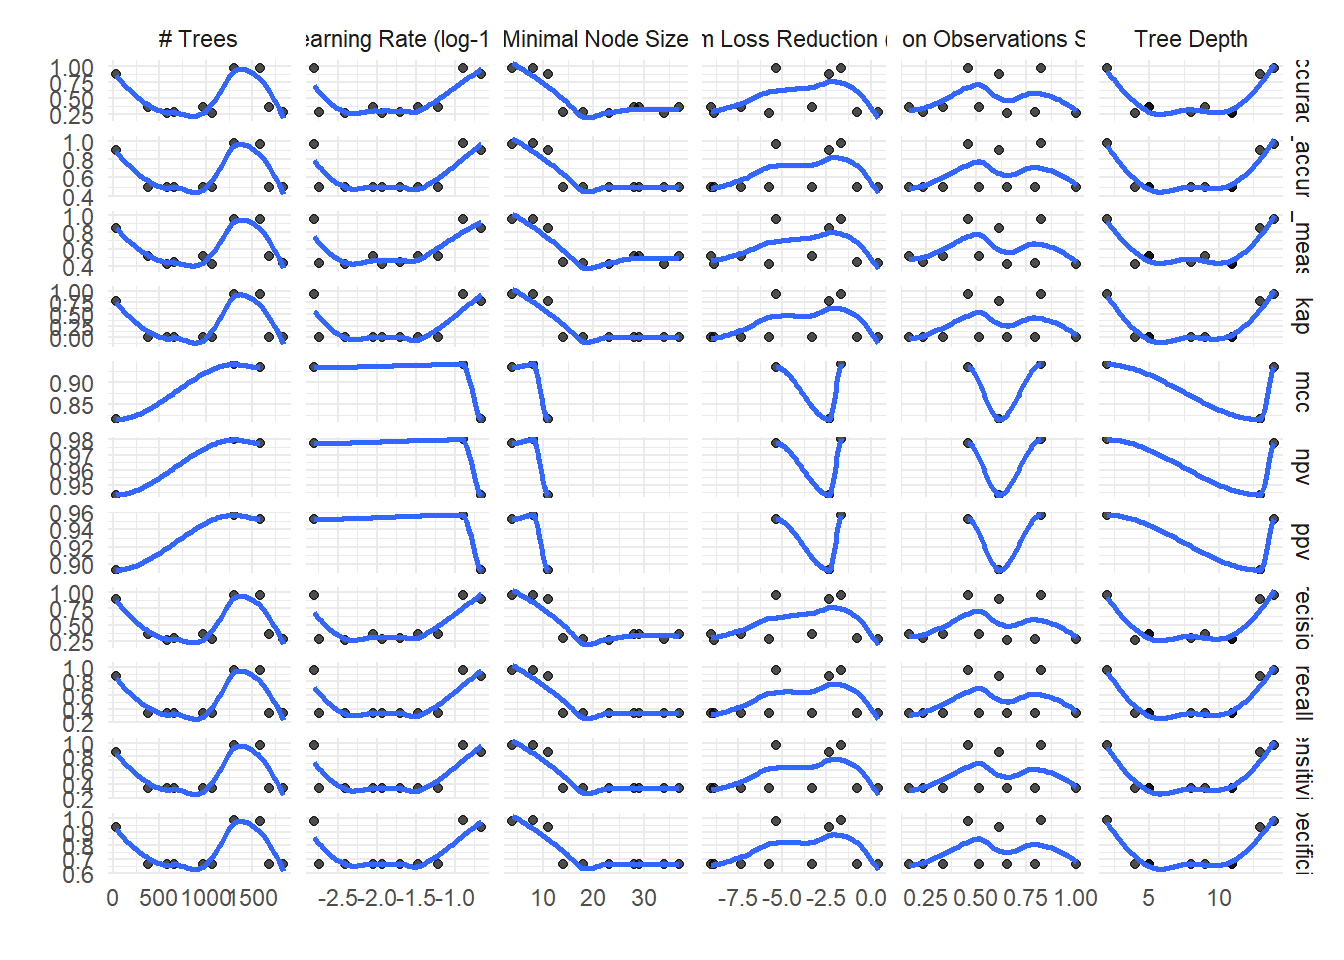
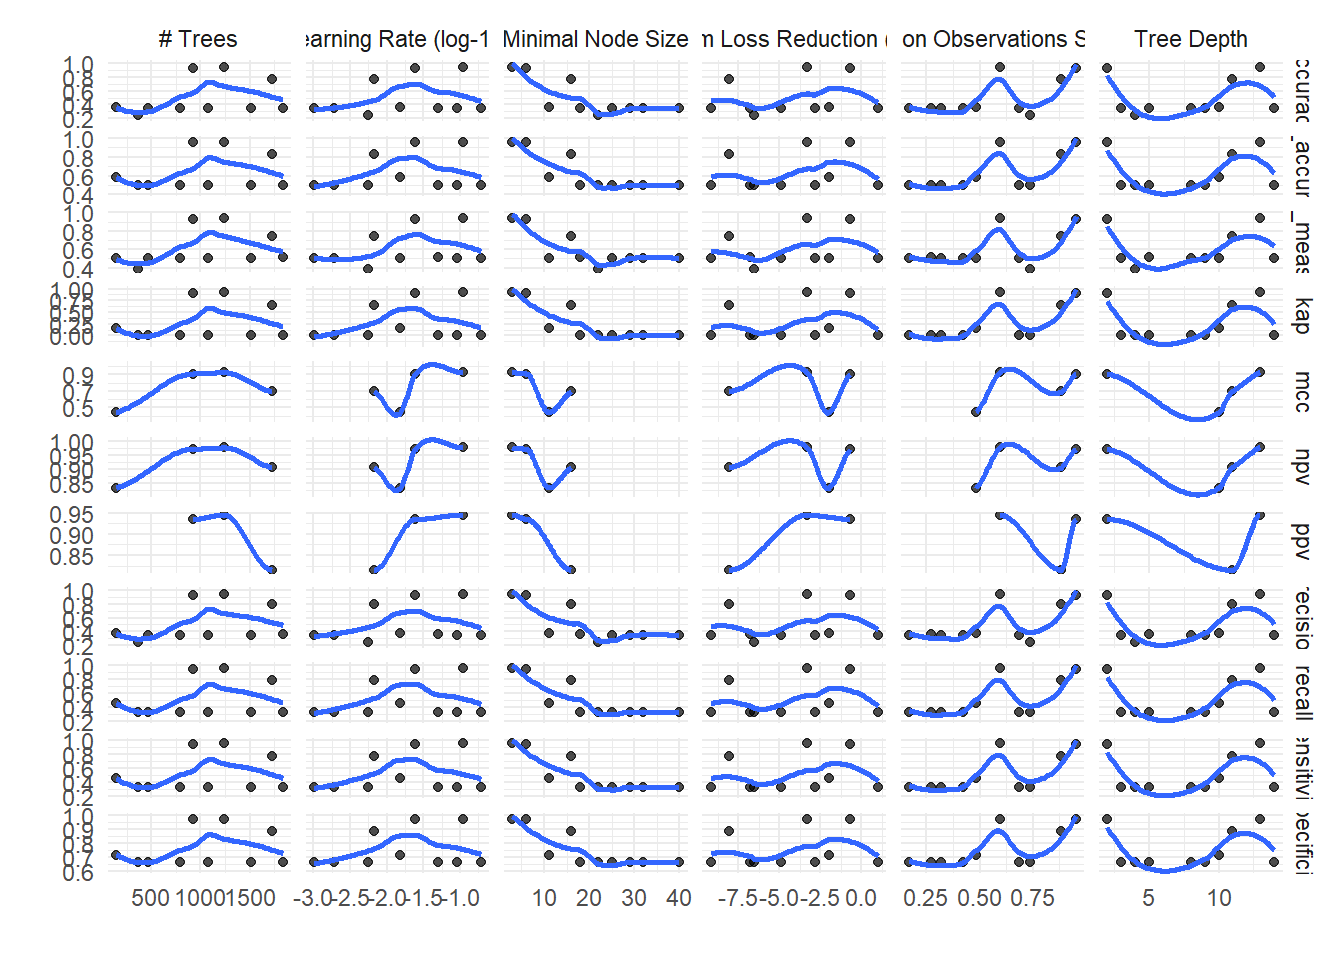
update

diff --git a/docs/posts/rtip-2023-01-19/index.html b/docs/posts/rtip-2023-01-19/index.html
@@ -345,7 +345,7 @@ gtag('config', 'G-JSJCM62KQJ', { 'anonymize_ip': true});
 <span id="cb8-8"><a href="#cb8-8" aria-hidden="true" tabindex="-1"></a>  <span class="at">.data =</span> data,</span>
 <span id="cb8-9"><a href="#cb8-9" aria-hidden="true" tabindex="-1"></a>  <span class="at">.rec_obj =</span> rec_obj,</span>
 <span id="cb8-10"><a href="#cb8-10" aria-hidden="true" tabindex="-1"></a>  <span class="at">.best_metric =</span> <span class="st">"f_meas"</span>,</span>
-<span id="cb8-11"><a href="#cb8-11" aria-hidden="true" tabindex="-1"></a>  <span class="at">.num_cores =</span> <span class="dv">10</span></span>
+<span id="cb8-11"><a href="#cb8-11" aria-hidden="true" tabindex="-1"></a>  <span class="at">.num_cores =</span> <span class="dv">1</span></span>
 <span id="cb8-12"><a href="#cb8-12" aria-hidden="true" tabindex="-1"></a>)</span></code><button title="Copy to Clipboard" class="code-copy-button"><i class="bi"></i></button></pre></div>
 </div>
 <p>There are three main outputs to this function, which are:</p>
@@ -434,29 +434,29 @@ Model: boost_tree()
 
 ── Model ───────────────────────────────────────────────────────────────────────
 ##### xgb.Booster
-raw: 2.6 Mb 
+raw: 2.5 Mb 
 call:
-  xgboost::xgb.train(params = list(eta = 0.12579431677228, max_depth = 2L, 
-    gamma = 0.0228443173215993, colsample_bytree = 1, colsample_bynode = 1, 
-    min_child_weight = 8L, subsample = 0.822957423881162), data = x$data, 
-    nrounds = 1312L, watchlist = x$watchlist, verbose = 0, nthread = 1, 
+  xgboost::xgb.train(params = list(eta = 0.10962507492329, max_depth = 13L, 
+    gamma = 0.000498577409120534, colsample_bytree = 1, colsample_bynode = 1, 
+    min_child_weight = 3L, subsample = 0.594320066112559), data = x$data, 
+    nrounds = 1240L, watchlist = x$watchlist, verbose = 0, nthread = 1, 
     objective = "multi:softprob", num_class = 3L)
 params (as set within xgb.train):
-  eta = "0.12579431677228", max_depth = "2", gamma = "0.0228443173215993", colsample_bytree = "1", colsample_bynode = "1", min_child_weight = "8", subsample = "0.822957423881162", nthread = "1", objective = "multi:softprob", num_class = "3", validate_parameters = "TRUE"
+  eta = "0.10962507492329", max_depth = "13", gamma = "0.000498577409120534", colsample_bytree = "1", colsample_bynode = "1", min_child_weight = "3", subsample = "0.594320066112559", nthread = "1", objective = "multi:softprob", num_class = "3", validate_parameters = "TRUE"
 xgb.attributes:
   niter
 callbacks:
   cb.evaluation.log()
 # of features: 4 
-niter: 1312
+niter: 1240
 nfeatures : 4 
 evaluation_log:
     iter training_mlogloss
-       1         0.9371787
-       2         0.8089778
+       1        0.96929822
+       2        0.85785438
 ---                       
-    1311         0.1609509
-    1312         0.1609522
+    1239        0.07815044
+    1240        0.07808817
 
 $was_tuned
 [1] "tuned"</code></pre>
@@ -470,16 +470,16 @@ $was_tuned
 # A tibble: 10 × 6
    trees min_n tree_depth learn_rate loss_reduction sample_size
    &lt;int&gt; &lt;int&gt;      &lt;int&gt;      &lt;dbl&gt;          &lt;dbl&gt;       &lt;dbl&gt;
- 1  1067    34         11    0.0117        1.82e- 6       1.00 
- 2   971    28          9    0.0604        4.76e- 4       0.334
- 3   584    23          4    0.00396       1.53e- 9       0.657
- 4    31    11         13    0.217         4.60e- 3       0.616
- 5  1683    37          5    0.00896       4.62e- 8       0.163
- 6  1312     8          2    0.126         2.28e- 2       0.823
- 7   377    29          5    0.0338        9.33e-10       0.513
- 8  1835    18         11    0.00183       2.52e+ 0       0.796
- 9  1592     4         14    0.00158       4.31e- 6       0.458
-10   654    14          8    0.0199        1.82e- 1       0.232
+ 1   926     6          2    0.0246        2.21e- 1       0.952
+ 2  1510    25         14    0.00189       1.01e+ 1       0.424
+ 3  1077    29          9    0.195         1.34e- 5       0.319
+ 4   795    32          3    0.00102       1.64e- 3       0.686
+ 5   368    22          4    0.00549       2.97e- 7       0.735
+ 6  1240     3         13    0.110         4.99e- 4       0.594
+ 7  1839    18          5    0.0501        1.67e- 7       0.273
+ 8   139    11         10    0.0153        1.17e- 2       0.483
+ 9   470    40          8    0.0906        6.79e-10       0.168
+10  1732    16         11    0.00667       9.19e- 9       0.883
 
 $cv_obj
 # Monte Carlo cross-validation (0.75/0.25) with 25 resamples  
@@ -518,7 +518,7 @@ $tuned_results
 
 There were issues with some computations:
 
-  - Warning(s) x1: While computing multiclass `precision()`, some levels had no pred...   - Warning(s) x1: While computing multiclass `precision()`, some levels had no pred...   - Warning(s) x1: While computing multiclass `precision()`, some levels had no pred...   - Warning(s) x1: While computing multiclass `precision()`, some levels had no pred...   - Warning(s) x1: While computing multiclass `precision()`, some levels had no pred...   - Warning(s) x1: While computing multiclass `precision()`, some levels had no pred...   - Warning(s) x1: While computing multiclass `precision()`, some levels had no pred...   - Warning(s) x1: While computing multiclass `precision()`, some levels had no pred...   - Warning(s) x1: While computing multiclass `precision()`, some levels had no pred...   - Warning(s) x1: While computing multiclass `precision()`, some levels had no pred...   - Warning(s) x1: While computing multiclass `precision()`, some levels had no pred...   - Warning(s) x1: While computing multiclass `precision()`, some levels had no pred...   - Warning(s) x1: While computing multiclass `precision()`, some levels had no pred...   - Warning(s) x2: While computing multiclass `precision()`, some levels had no pred...   - Warning(s) x1: While computing multiclass `precision()`, some levels had no pred...   - Warning(s) x1: While computing multiclass `precision()`, some levels had no pred...   - Warning(s) x1: While computing multiclass `precision()`, some levels had no pred...   - Warning(s) x1: While computing multiclass `precision()`, some levels had no pred...   - Warning(s) x1: While computing multiclass `precision()`, some levels had no pred...   - Warning(s) x1: While computing multiclass `precision()`, some levels had no pred...   - Warning(s) x1: While computing multiclass `precision()`, some levels had no pred...   - Warning(s) x1: While computing multiclass `precision()`, some levels had no pred...   - Warning(s) x1: While computing multiclass `precision()`, some levels had no pred...   - Warning(s) x1: While computing multiclass `precision()`, some levels had no pred...
+  - Warning(s) x1: While computing multiclass `precision()`, some levels had no pred...   - Warning(s) x1: While computing multiclass `precision()`, some levels had no pred...   - Warning(s) x1: While computing multiclass `precision()`, some levels had no pred...   - Warning(s) x1: While computing multiclass `precision()`, some levels had no pred...   - Warning(s) x1: While computing multiclass `precision()`, some levels had no pred...   - Warning(s) x1: While computing multiclass `precision()`, some levels had no pred...   - Warning(s) x1: While computing multiclass `precision()`, some levels had no pred...   - Warning(s) x1: While computing multiclass `precision()`, some levels had no pred...   - Warning(s) x1: While computing multiclass `precision()`, some levels had no pred...   - Warning(s) x1: While computing multiclass `precision()`, some levels had no pred...   - Warning(s) x1: While computing multiclass `precision()`, some levels had no pred...   - Warning(s) x1: While computing multiclass `precision()`, some levels had no pred...   - Warning(s) x1: While computing multiclass `precision()`, some levels had no pred...   - Warning(s) x1: While computing multiclass `precision()`, some levels had no pred...   - Warning(s) x1: While computing multiclass `precision()`, some levels had no pred...   - Warning(s) x1: While computing multiclass `precision()`, some levels had no pred...   - Warning(s) x1: While computing multiclass `precision()`, some levels had no pred...   - Warning(s) x1: While computing multiclass `precision()`, some levels had no pred...   - Warning(s) x1: While computing multiclass `precision()`, some levels had no pred...   - Warning(s) x1: While computing multiclass `precision()`, some levels had no pred...   - Warning(s) x1: While computing multiclass `precision()`, some levels had no pred...   - Warning(s) x1: While computing multiclass `precision()`, some levels had no pred...   - Warning(s) x1: While computing multiclass `precision()`, some levels had no pred...   - Warning(s) x1: While computing multiclass `precision()`, some levels had no pred...   - Warning(s) x1: While computing multiclass `precision()`, some levels had no pred...
 
 Run `show_notes(.Last.tune.result)` for more information.
 
@@ -532,7 +532,7 @@ $best_result_set
 # A tibble: 1 × 12
   trees min_n tree_depth learn_rate loss_r…¹ sampl…² .metric .esti…³  mean     n
   &lt;int&gt; &lt;int&gt;      &lt;int&gt;      &lt;dbl&gt;    &lt;dbl&gt;   &lt;dbl&gt; &lt;chr&gt;   &lt;chr&gt;   &lt;dbl&gt; &lt;int&gt;
-1  1312     8          2      0.126   0.0228   0.823 f_meas  macro   0.957    25
+1  1240     3         13      0.110 0.000499   0.594 f_meas  macro   0.944    25
 # … with 2 more variables: std_err &lt;dbl&gt;, .config &lt;chr&gt;, and abbreviated
 #   variable names ¹loss_reduction, ²sample_size, ³.estimator
 

diff --git a/docs/index.html b/docs/index.html
@@ -207,7 +207,7 @@ gtag('config', 'G-JSJCM62KQJ', { 'anonymize_ip': true});
 
 <div class="quarto-listing quarto-listing-container-default" id="listing-listing">
 <div class="list quarto-listing-default">
-<div class="quarto-post image-right" data-index="0" data-categories="code,rtip,xgboost,healthyrai" data-listing-date-sort="1674104400000" data-listing-file-modified-sort="1674144983284" data-listing-reading-time-sort="3.665">
+<div class="quarto-post image-right" data-index="0" data-categories="code,rtip,xgboost,healthyrai" data-listing-date-sort="1674104400000" data-listing-file-modified-sort="1674147731013" data-listing-reading-time-sort="3.665">
 <div class="thumbnail">
 <a href="./posts/rtip-2023-01-19/index.html">
 <div class="thumbnail-image">
